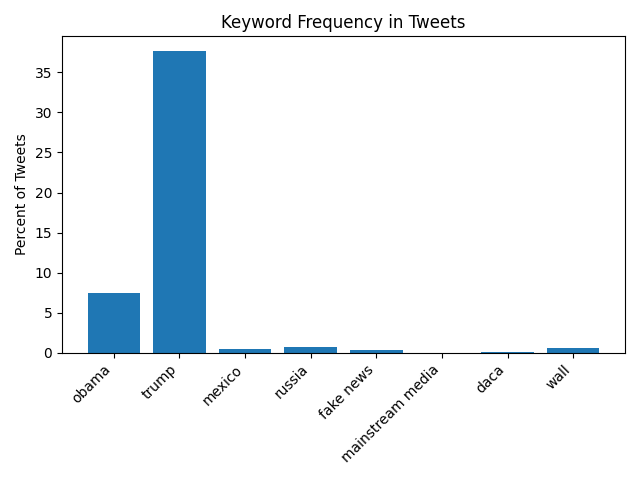
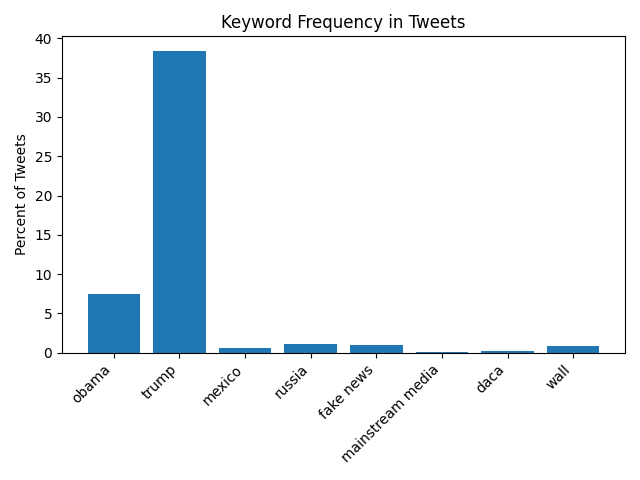
done

diff --git a/lab_tweets.py b/lab_tweets.py
@@ -1,7 +1,6 @@
 import json
 import glob
 import matplotlib.pyplot as plt
-import os
 
 
 # ----------------------
@@ -9,26 +8,22 @@ import os
 # ----------------------
 tweets = []
 
-files = sorted(glob.glob("trump_tweet_data_archive-master/master_*.json"))
+files = sorted(glob.glob("trump_tweet_data_archive-master/condensed_*.json"))
 
 for filename in files:
     print(f"Loading: {filename}")
     with open(filename, "r", encoding="utf8") as f:
         data = json.load(f)
 
-        if isinstance(data, list):
-            tweets.extend(data)
-
-        elif isinstance(data, dict):
-            if "tweets" in data:
-                tweets.extend(data["tweets"])
-            elif "data" in data:
-                tweets.extend(data["data"])
+        for tweet in data:
+            if "text" in tweet:
+                tweets.append(tweet["text"])
             else:
-                tweets.append(data)
+                tweets.append(tweet)
 
 total = len(tweets)
 print("len(tweets) =", total)
+#print(tweets)
 
 # ----------------------
 # phrases to count
@@ -51,7 +46,7 @@ phrases = [
 counts = {p: 0 for p in phrases}
 
 for tweet in tweets:
-    text = str(tweet.get("text", "")).lower()
+    text = tweet.lower()
     for phrase in phrases:
         if phrase in text:
             counts[phrase] += 1
